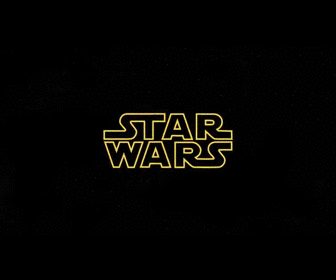
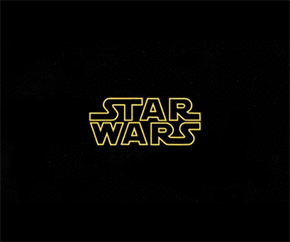
Finishing touches for Star Wars Animated Respring Theme

Changed region(s): [[0.3103, 0.405, 0.6828, 0.6074], [0.9931, 0.9835, 1.0, 1.0]]

diff --git a/depic/Star Wars Animated Respring Theme/index.html b/depic/Star Wars Animated Respring Theme/index.html
@@ -22,8 +22,9 @@
       </li>
 </p>
     <ul>
-      <img src="0.png" alt="Star Wars Slide 1" style="width:336px;height:280px;">
-
+      <img src="0.png" alt="Star Wars Image 1" style="width:290px;height:242px;">
+      <img src="48.png" alt="Star Wars Image 2" style="width:290px;height:242px;">
+      <img src="87.png" alt="Star Wars Image 2" style="width:290px;height:242px;">
 
     </ul>
 
